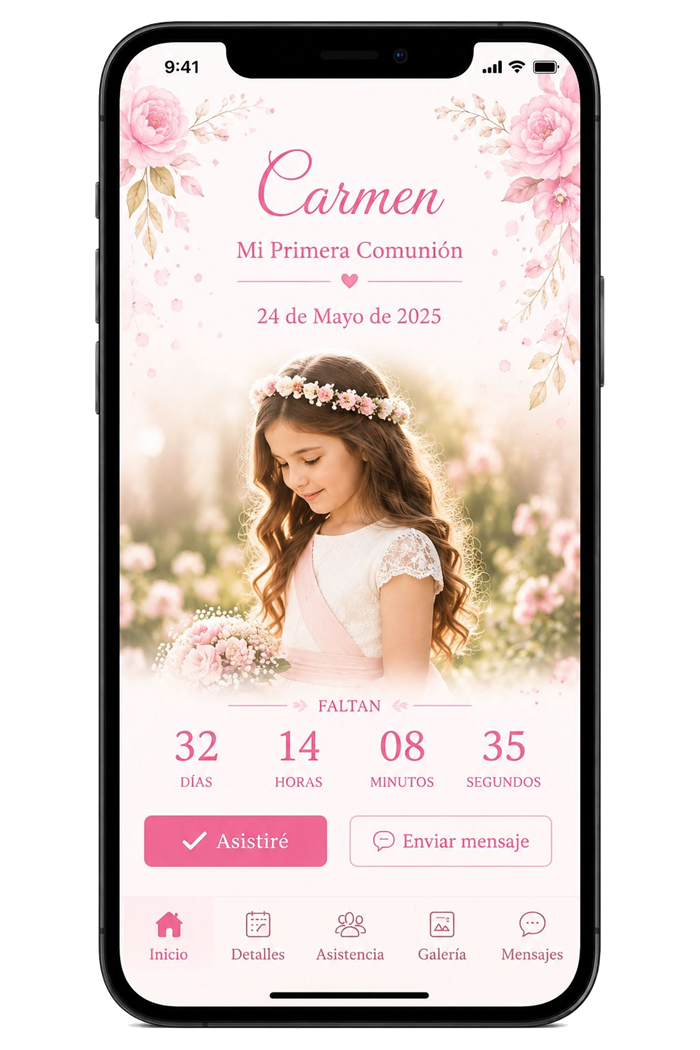
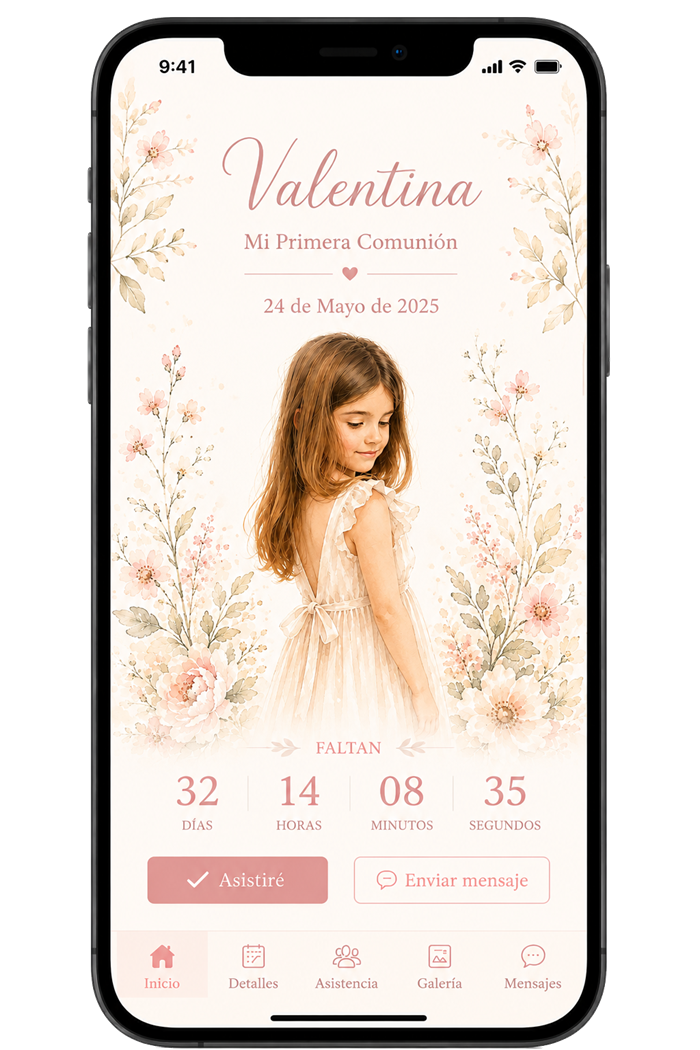
Fix collaborative gallery access and update hero image

diff --git a/EvenTin/css/style.css b/EvenTin/css/style.css
@@ -2927,10 +2927,29 @@ body[data-palette="home"] .home-admin-link svg {
     gap: 16px;
 }
 
+.collaborative-gallery-settings > button {
+    width: 100%;
+    min-height: 46px;
+}
+
 .collaborative-gallery-actions {
-    display: flex;
+    display: grid;
+    grid-template-columns: repeat(2, minmax(0, 1fr));
     gap: 10px;
-    flex-wrap: wrap;
+    margin-top: 10px;
+}
+
+.collaborative-gallery-actions > * {
+    width: 100%;
+    min-height: 46px;
+    margin: 0;
+    justify-content: center;
+}
+
+@media (max-width: 560px) {
+    .collaborative-gallery-actions {
+        grid-template-columns: 1fr;
+    }
 }
 
 @media (max-width: 760px) {

diff --git a/EvenTin/admin.html b/EvenTin/admin.html
@@ -213,7 +213,7 @@
                     <form id="collaborative-gallery-form" class="collaborative-gallery-settings">
                         <label class="radio-line">
                             <input type="checkbox" name="enabled">
-                            Activar enlace en la pagina del evento
+                            Ver enlace en la pagina del evento
                         </label>
                         <label>
                             Clave de acceso

diff --git a/EvenTin/PROJECT_HANDOFF.md b/EvenTin/PROJECT_HANDOFF.md
@@ -138,7 +138,7 @@ El codigo numerico de evento tiene 6 digitos, se genera automaticamente al crear
 - Hay que ejecutar el `schema.sql` actualizado para activar `eventin_submit_public_message` y los avisos de mensajes publicos.
 - Se añadieron galeria publica y galeria colaborativa. Las fotografias se optimizan a un maximo de 500 KB y se guardan en el bucket privado `eventin-gallery`.
 - `gallery-api` esta desplegada y controla listado, subida y borrado sin exponer permisos amplios de Storage.
-- La galeria colaborativa usa enlace con token, clave almacenada como hash, activacion desde el panel y presentacion a pantalla completa.
+- La galeria colaborativa usa enlace con token, clave almacenada como hash y presentacion a pantalla completa. El control `Ver enlace en la pagina del evento` solo cambia la visibilidad del enlace publico; desde administracion siempre se puede copiar el enlace y acceder con su clave.
 - Hay que ejecutar el `schema.sql` actualizado para crear tablas, funciones y bucket de galerias.
 - Las funciones de clave colaborativa llaman explicitamente a `extensions.crypt` y `extensions.gen_salt`, porque Supabase instala `pgcrypto` en el esquema `extensions`.
 - El formulario de contacto se movio a `contacto.html`; los botones de contacto y `Crear mi evento` enlazan a esa pagina.

diff --git a/EvenTin/MANUAL_USUARIO.md b/EvenTin/MANUAL_USUARIO.md
@@ -294,11 +294,11 @@ La pagina del evento muestra la seccion `Recuerdos`, desde la que cualquier visi
 La galeria colaborativa se configura desde el panel de administracion del evento:
 
 1. Indicar una clave de acceso.
-2. Marcar `Activar enlace en la pagina del evento`.
+2. Marcar `Ver enlace en la pagina del evento` solo si se quiere mostrar el acceso en la pagina publica del evento.
 3. Guardar la configuracion.
 4. Copiar el enlace privado y compartirlo junto con la clave.
 
-Cuando esta activa, la pagina del evento muestra su enlace dentro de `Recuerdos`.
+Cuando esta opcion esta marcada, la pagina del evento muestra su enlace dentro de `Recuerdos`. Desde administracion siempre se puede copiar el enlace y acceder a la galeria, aunque no se muestre en la pagina publica.
 
 - Cualquier persona con el enlace y la clave puede ver y añadir fotografias.
 - Solo un usuario con rol administrador puede borrar fotografias.
